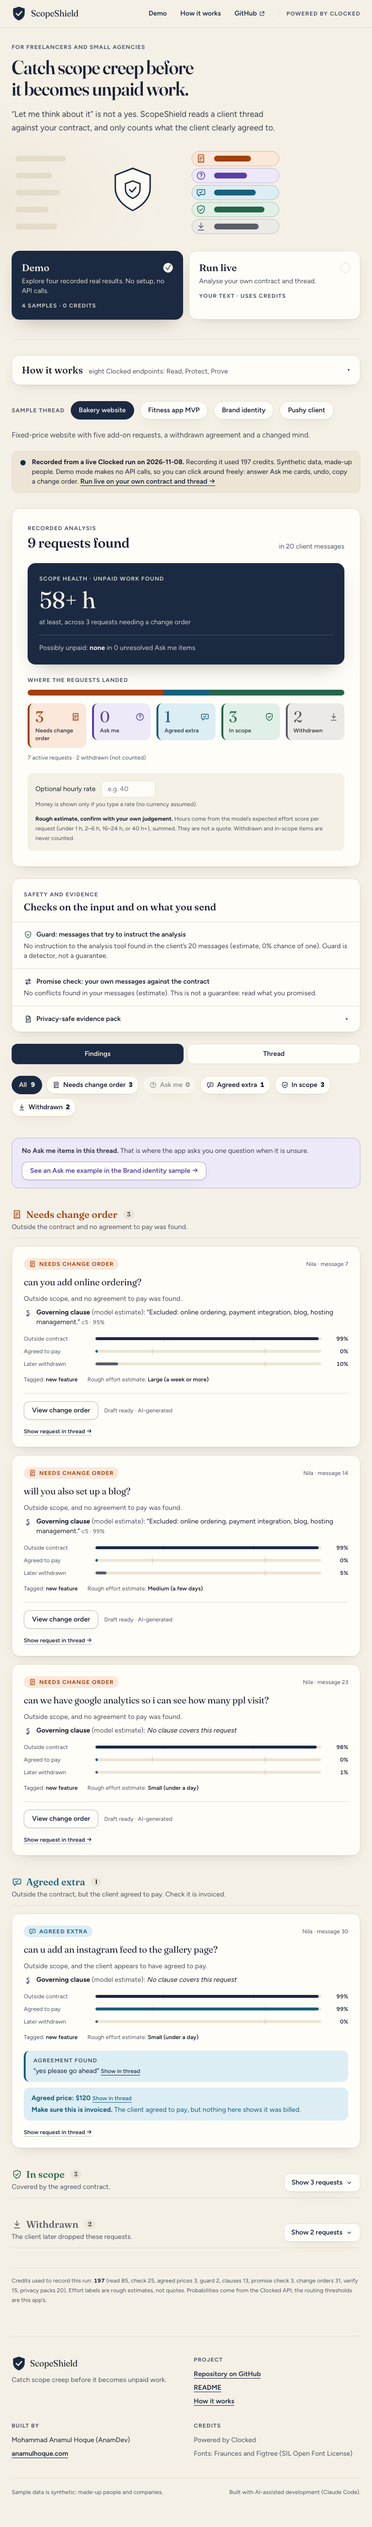
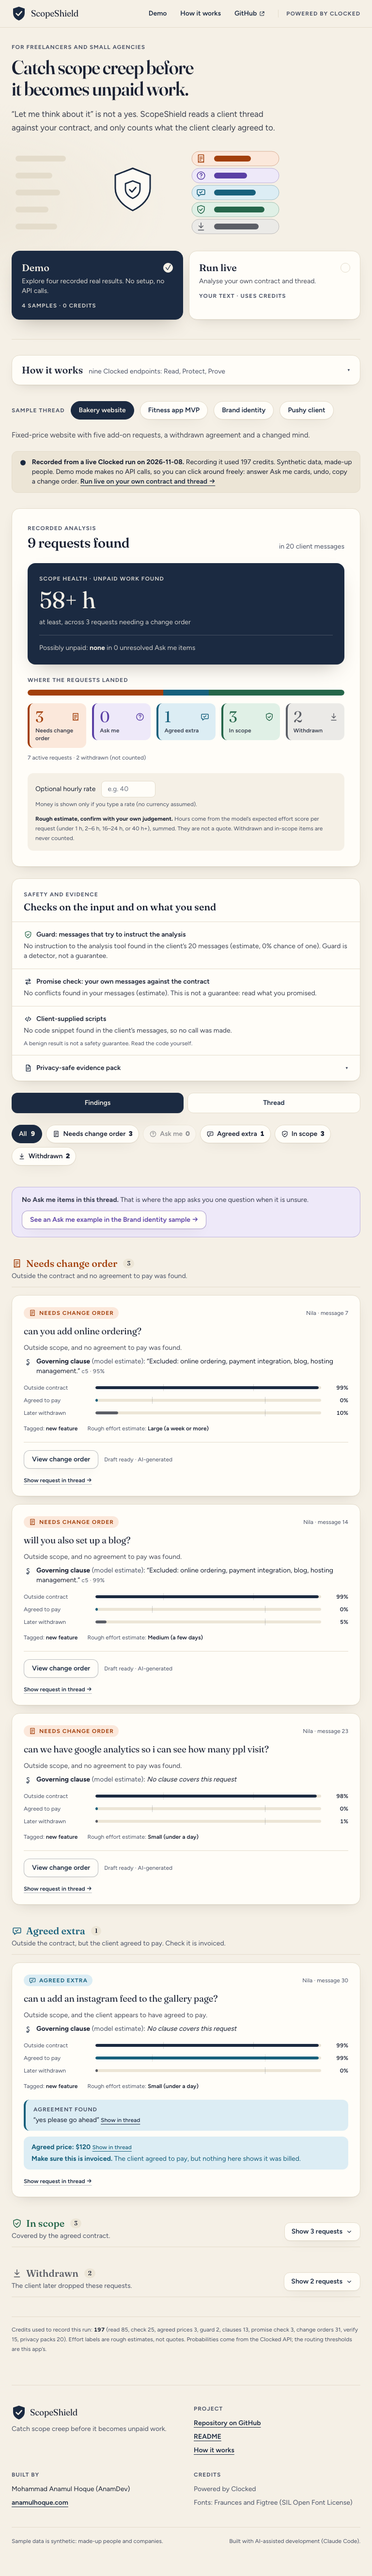
docs: nine endpoints (Read, Protect, Prove) with Inspect, Limitations for Compare passages, tuned prompts, detection misses and Inspect; eval 32/33 (120 credits); screenshots regenerated

diff --git a/src/components/HowItWorks.tsx b/src/components/HowItWorks.tsx
@@ -7,7 +7,6 @@ const GROUPS: ReadonlyArray<{ name: string; rows: readonly Row[] }> = [
     rows: [
       ["Extract", "Which sentences in each client message are separate requests (and where they sit in the thread). Also finds the agreement or withdrawal sentence, and the quoted price for Agreed extra items.", "Builds the request list, highlights the client’s exact sentence in the thread, and shows “No actionable request” when nothing is found."],
       ["Decide", "For each request, the probability that it is outside the contract, that the client agreed to pay, and that they later withdrew it. Also a kind tag and an effort score.", "This app applies its own thresholds to route each request to a queue, draws the probability bars, and feeds the rough effort estimate. Uncertain results go to Ask me."],
-      ["Rerank", "Which clause of your contract governs a request (the contract is split into clauses; one call per active request).", "Shows the “Governing clause” on the card, or “No clause covers this request”, and passes the clause into Fill so a change-order message can cite the exclusion. It never changes the queue."],
       ["Fill", "For a request that needs a change order: category, unpaid risk, the price quoted (if any), a drafted client message and a next step.", "Creates the change-order card (collapsed until you open it). Generated text is labelled as an AI-generated draft, and Copy is blocked if it contains an amount that is not in the thread."],
     ],
   },
@@ -16,12 +15,14 @@ const GROUPS: ReadonlyArray<{ name: string; rows: readonly Row[] }> = [
     rows: [
       ["Guard", "Whether the client’s messages try to instruct the analysis tool itself (ignore the rules, mark things in scope or paid). Ordinary requests, pressure and discount asks are not injection.", "A flagged message gets a warning chip, and its text is replaced by a withheld notice before Decide, Fill and Verify see the thread. “Include anyway” is your recorded choice."],
       ["Protect (PII)", "Names, emails, phone numbers, addresses and bank or card numbers in a privacy-safe evidence pack for one request.", "Offers a masked copy of the pack to download or copy, with the number of items found and masked. Your original text is never changed. Detection can miss sensitive data."],
+      ["Inspect", "Whether a code snippet the client pasted (a tracking tag, a script to install) looks routine, suspicious or harmful. One call per snippet, at most 3, never run.", "Adds a “Client-supplied script” row to the request card with the flagged lines and a link into the chat. If flagged, Fill’s next step asks the client for the snippet’s source and not to install it until confirmed. A benign result is not a safety guarantee."],
     ],
   },
   {
     name: "Prove",
     rows: [
       ["Verify", "Whether each factual claim in a generated change-order message is supported by the contract and the thread (two named sources), contradicted by them, or not stated in them.", "A contradicted claim blocks Copy and shows the claim with its evidence. A not-found claim shows an amber note and asks you to confirm you have read it. Evidence passages are highlighted in the thread. The next step is not checked."],
+      ["Rerank", "Which clause of your contract governs a request (the contract is split into clauses; one call per active request).", "Shows the “Governing clause” on the card, or “No clause covers this request”, and passes the clause into Fill so a change-order message can cite the exclusion. It never changes the queue."],
       ["Compare", "Where your own messages may conflict with the contract, for example offering excluded work at no cost or more revisions than agreed.", "A “Promise check” lists each possible conflict with both quotes and a link to the message. It is labelled “Possible conflict, please review”, never a verdict."],
     ],
   },
@@ -33,7 +34,7 @@ export function HowItWorks({ analysis, recorded }: { analysis: Analysis | null; 
   return (
     <details id="how-it-works" className="group surface scroll-mt-20">
       <summary className="flex list-none items-center justify-between gap-3 px-5 py-4 text-sm font-semibold">
-        <span className="flex flex-wrap items-baseline gap-x-3"><span className="t-h3">How it works</span><span className="font-normal text-muted">eight Clocked endpoints: Read, Protect, Prove</span></span>
+        <span className="flex flex-wrap items-baseline gap-x-3"><span className="t-h3">How it works</span><span className="font-normal text-muted">nine Clocked endpoints: Read, Protect, Prove</span></span>
         <span aria-hidden className="text-muted transition-transform group-open:rotate-180">▾</span>
       </summary>
       <div className="space-y-4 border-t border-line px-5 py-5 text-sm leading-6">
@@ -54,7 +55,7 @@ export function HowItWorks({ analysis, recorded }: { analysis: Analysis | null; 
         <p className="text-muted"><b className="text-ink">Not decided by Clocked:</b> the queue thresholds (30% / 70% scope, 25% / 75% payment, 75% withdrawn), the hour bands and the Copy block are rules in this app. Your answers to Ask me questions are yours.</p>
         <p>
           <b>{recorded ? "Credits used to record this analysis" : "Credits used by this analysis"}:</b>{" "}
-          {u ? <>{total} (Extract {u.extract.calls} calls / {u.extract.credits} credits, Decide {u.decide.calls} / {u.decide.credits}, Agreed prices {u.price?.calls ?? 0} / {u.price?.credits ?? 0}, Guard {u.guard?.calls ?? 0} / {u.guard?.credits ?? 0}, Rerank {u.rerank?.calls ?? 0} / {u.rerank?.credits ?? 0}, Compare {u.compare?.calls ?? 0} / {u.compare?.credits ?? 0}, Fill {u.fill.calls} / {u.fill.credits}, Verify {u.verify?.calls ?? 0} / {u.verify?.credits ?? 0}, Protect {u.pii?.calls ?? 0} / {u.pii?.credits ?? 0})</> : "nothing analysed yet"}
+          {u ? <>{total} (Extract {u.extract.calls} calls / {u.extract.credits} credits, Decide {u.decide.calls} / {u.decide.credits}, Agreed prices {u.price?.calls ?? 0} / {u.price?.credits ?? 0}, Guard {u.guard?.calls ?? 0} / {u.guard?.credits ?? 0}, Rerank {u.rerank?.calls ?? 0} / {u.rerank?.credits ?? 0}, Compare {u.compare?.calls ?? 0} / {u.compare?.credits ?? 0}, Fill {u.fill.calls} / {u.fill.credits}, Verify {u.verify?.calls ?? 0} / {u.verify?.credits ?? 0}, Protect {u.pii?.calls ?? 0} / {u.pii?.credits ?? 0}, Inspect {u.script?.calls ?? 0} / {u.script?.credits ?? 0})</> : "nothing analysed yet"}
         </p>
       </div>
     </details>

diff --git a/scripts/eval.ts b/scripts/eval.ts
@@ -177,6 +177,7 @@ const md = [
   `| rerank | ${calls.rerank} | ${credits.rerank} |`,
   `| pii | ${calls.pii} | ${credits.pii} |`,
   `| compare | ${calls.compare} | ${credits.compare} |`,
+  `| script | ${calls.script} | ${credits.script} |`,
   `| **Total** | ${Object.values(calls).reduce((t, x) => t + x, 0)} | **${total}** |`,
   ``,
 ].join("\n") + "\n" + readFileSync("docs/eval-notes.md", "utf8");

diff --git a/README.md b/README.md
@@ -34,22 +34,23 @@ Around that sits one calm "Safety and evidence" area: **Guard** screens the clie
 
 ## How ScopeShield uses Clocked
 
-ScopeShield uses eight Clocked endpoints in one pipeline, grouped as **Read** (understand the thread and the contract), **Protect** (keep the analysis and your data safe) and **Prove** (check what is said against the sources). Each output changes what the app does or shows.
+ScopeShield uses nine endpoints: Read (Extract, Decide, Fill), Protect (Guard, Protect, Inspect), Prove (Verify, Rerank, Compare). Together they form one pipeline: Read understands the thread and the contract, Protect keeps the analysis and your data safe, Prove checks what is said against the sources. Each output changes what the app does or shows.
 
 | Group | Clocked endpoint | What it decides | What changes in the app |
 |---|---|---|---|
 | Read | **Extract** (`/extract`) | Which sentences in each client message are separate requests, with their position in the thread. Also the agreement or withdrawal sentence and, for agreed work, the price quoted for that request. | Builds the request list and the evidence highlights in the thread. An empty result is shown as "No actionable request". Agreed extra cards show the agreement sentence and "Agreed price" (or "No price found in the thread"). |
 | Read | **Decide** (`/decide`) | For each request, on the contract plus the full thread: the probability that it is outside the contract, that the client clearly agreed to pay, and that they later withdrew it, plus a kind tag and an effort score. | The app applies its own thresholds to route the request to a queue, draws the probability bars, triggers the Ask me question for uncertain results, and feeds the rough hour estimate. |
-| Read | **Rerank** (`/rerank`) | Which clause of your contract governs a request. The contract is split into clauses c1..cn by a deterministic splitter; one call per active (not withdrawn) request. | The card shows "Governing clause (model estimate)" with its quote, or "No clause covers this request". The clause is passed into Fill so the change-order message can cite the exclusion, and Verify checks it like any other claim. It never changes the queue. |
 | Read | **Fill** (`/fill`) | For a change-order request: category, unpaid risk, the price quoted (if any), a short message to the client and a next step. | Creates the change-order card. Generated text is labelled "AI-generated draft". Decide's effort and agreement results are passed into Fill's instructions, so a large job with no agreement cannot be rated low risk. |
 | Protect | **Guard** (`/injection`) | Whether the client's messages try to instruct the analysis tool (ignore the rules, mark things in scope or paid, reveal prompts). One call over the client's messages only. Ordinary requests, pressure and discount asks are not injection. | A flagged message gets a warning chip in the chat and a banner. Its text is replaced by "[message withheld: possible instruction to the analysis tool]" in everything Decide, Fill, Verify and the lookups see. "Include anyway" is your recorded choice. |
 | Protect | **Protect** (`/pii`) | Names, emails, phones, addresses and bank or card numbers in an "evidence pack" assembled for one request. | Offers a masked copy to download or copy, with "Found and masked: N items (by kind)". Your original text is never altered. "Detection can miss sensitive data. Review before sharing." |
+| Protect | **Inspect** (`/script`) | Whether a code snippet the client pasted (a tracking tag, a script to install) looks routine, suspicious or harmful. Deterministic detection first (code fence, `<script`, function with braces, `curl ... \| sh`, PowerShell cmdlets); at most 3 snippets, each up to 5,000 characters; no call when there is none. The snippet is treated as untrusted text and never run. | The request card gets a "Client-supplied script" row with the risk (model estimate), the flagged lines in a code block and "Show in thread". If flagged, Fill's next step asks the client for the snippet's source and not to install it until that is confirmed. "A benign result is not a safety guarantee. Read the code yourself." |
 | Prove | **Verify** (`/grounding`) | Whether each factual claim in the generated message is supported by, contradicted by, or not stated in two named sources: the contract and the thread. | A contradicted claim blocks Copy and shows the evidence. A not-stated claim shows a note and needs one acknowledgement. Supported claims are counted. |
 | Prove | **Compare** (`/compare`) | Where your own messages may conflict with the contract, for example offering excluded work at no cost or more revisions than agreed. One call per analysis. | A "Promise check" panel lists each possible conflict with both quotes and a link into the chat, labelled "Possible conflict, please review", or "No conflicts found in your messages". Never a verdict. |
+| Prove | **Rerank** (`/rerank`) | Which clause of your contract governs a request. The contract is split into clauses c1..cn by a deterministic splitter; one call per active (not withdrawn) request. | The card shows "Governing clause (model estimate)" with its quote, or "No clause covers this request". The clause is passed into Fill so the change-order message can cite the exclusion, and Verify checks it like any other claim. It never changes the queue. |
 
 **Routing is owned by the app, not the model.** Withdrawn is checked first (withdrawal probability 0.75 or more). Otherwise outside below 0.30 is in scope; from 0.30 to below 0.70 goes to Ask me; at 0.70 or more it depends on the agreement to pay: 0.75 or more is an agreed extra, 0.25 or less needs a change order, and anything between goes to Ask me. A withdrawn request is excluded from Fill and from the Scope Health numbers.
 
-**How they work together:** Guard screens the input first. Extract locates requests, Decide judges them, Rerank ties each to a clause, Fill drafts, Verify checks the draft. Compare checks your own promises against the contract, and Protect masks the evidence you may share.
+**How they work together:** Guard screens the input first, and Inspect checks any pasted code the same way. Extract locates requests, Decide judges them, Rerank ties each to a clause, Fill drafts, Verify checks the draft. Compare checks your own promises against the contract, and Protect masks the evidence you may share.
 
 ## How uncertain results, missing information and failures are handled
 
@@ -58,7 +59,7 @@ ScopeShield uses eight Clocked endpoints in one pipeline, grouped as **Read** (u
 - **Everything the models say is an estimate.** Guard flags, governing clauses, promise-check conflicts and masked findings are labelled as estimates, with the evidence next to them, and none of them changes a queue on its own (Guard only withholds the text of a flagged message, and you can include it anyway).
 - **Generated text is guarded twice.** A check blocks Copy when a draft contains a currency amount that is not in the contract or thread (with one stricter Regenerate), and Verify blocks Copy when a claim is contradicted.
 - **Failures.** The client retries timeouts, network errors, 409, 429 and 5xx up to four attempts with exponential backoff and jitter, always with the same `Idempotency-Key`, and never retries 400, 401, 402 or 403. After that the failure is visible and specific (input problem, credits used up, rate limit, server problem), partial results are kept, and each failed message or request has its own Retry. When credits run out, the banner offers "Switch to Demo mode". Requests run three at a time. Live runs have input caps: contract up to 6,000 characters, thread up to 12,000, up to 30 client messages.
-- **Abuse protection for the public proxy.** The API key stays server-side in a Cloudflare Pages Function. It allows only the eight endpoints (`decide`, `extract`, `fill`, `grounding`, `injection`, `rerank`, `pii`, `compare`), rejects bodies over 200 KB, rejects cross-origin browser requests, and enforces approximate daily caps (100 Clocked calls per IP and 800 per site per UTC day by default, counting every endpoint; see "Credit cost per analysis" for what that means per analysis, with a friendly "Live mode limit reached today, please use Demo mode" message).
+- **Abuse protection for the public proxy.** The API key stays server-side in a Cloudflare Pages Function. It allows only the nine endpoints (`decide`, `extract`, `fill`, `grounding`, `injection`, `rerank`, `pii`, `compare`, `script`), rejects bodies over 200 KB, rejects cross-origin browser requests, and enforces approximate daily caps (100 Clocked calls per IP and 800 per site per UTC day by default, counting every endpoint; see "Credit cost per analysis" for what that means per analysis, with a friendly "Live mode limit reached today, please use Demo mode" message).
 
 ## Thread replay in Demo mode
 
@@ -118,7 +119,7 @@ npx wrangler pages deploy dist --project-name scopeshield --branch main
 
 ## Evaluation
 
-`npm run eval` runs 31 golden cases against the live Clocked API through the same client the app uses (final run: 8 November 2026). **30 of 31 pass.** The full table, with every case and its numbers, is in [docs/eval-results.md](docs/eval-results.md); how the cases evolved is in [docs/eval-notes.md](docs/eval-notes.md).
+`npm run eval` runs 33 golden cases against the live Clocked API through the same client the app uses (final run: 8 November 2026). **32 of 33 pass.** The full table, with every case and its numbers, is in [docs/eval-results.md](docs/eval-results.md); how the cases evolved is in [docs/eval-notes.md](docs/eval-notes.md).
 
 | Group | Cases | Passed | What is checked |
 |---|---|---|---|
@@ -130,8 +131,9 @@ npx wrangler pages deploy dist --project-name scopeshield --branch main
 | Rerank | 2 | 2 | a blog request finds the exclusion clause; a banner-colour request does not |
 | Protect | 2 | 2 | a name, an email and a phone number are masked; text without personal data is left unchanged |
 | Compare | 2 | 2 | offering excluded work at no cost is flagged; consistent freelancer messages are not |
+| Inspect | 2 | 2 | a routine analytics tag is not flagged harmful; a snippet that sends cookies to an outside address is |
 
-The one failure is real and left failing on purpose: for the WhatsApp "no extra cost" request the drafted message still opens with "I can certainly", which our rubric forbids. One positive and one benign case per endpoint is a thin test: it shows each feature can fire and can stay quiet, not how often it is right (see Limitations). There are also **141 unit tests** in 14 files (routing, thread parsing and Unicode offsets, retry and backoff, the pipeline with mocked calls, the invented-amount check, Verify policy, Guard withholding and offset mapping, clause splitting, promise-check mapping, evidence packs, the proxy and its rate limits, replay and chat helpers).
+The one failure is real and left failing on purpose: for the WhatsApp "no extra cost" request the drafted message still opens with "I can certainly", which our rubric forbids. One positive and one benign case per endpoint is a thin test: it shows each feature can fire and can stay quiet, not how often it is right (see Limitations). There are also **161 unit tests** in 15 files (routing, thread parsing and Unicode offsets, retry and backoff, the pipeline with mocked calls, the invented-amount check, Verify policy, Guard withholding and offset mapping, snippet detection and Inspect mapping, clause splitting, promise-check mapping, evidence packs, the proxy and its rate limits, replay and chat helpers).
 
 ## Credit cost per analysis
 
@@ -142,12 +144,12 @@ Measured from `X-Clocked-Credits`; details in [docs/credit-usage.md](docs/credit
 | Live analysis of the Fitness sample (17 messages, 10 from the client, 4 requests), analysis only, **before** M9 to M12 | 39 | 16 |
 | The same, **after** Guard, Rerank (one per request) and Compare were added | **46** | 22 |
 | The same, plus one change order (Fill 12, Verify 3) and one evidence pack (Protect 3) | **64** | 25 |
-| Recorded analysis-only totals: Bakery (36 messages, 9 requests) / Fitness / Brand / Pushy client | 131 / 63 / 80 / 71 | 42 / 22 / 26 / 23 |
-| Recorded totals including a change order for every eligible request and an evidence pack: Bakery / Fitness / Brand / Pushy client | 197 / 121 / 123 / 105 | |
+| Recorded analysis-only totals: Bakery (36 messages, 9 requests) / Fitness / Brand / Pushy client | 131 / 63 / 80 / 78 | 42 / 22 / 26 / 27 |
+| Recorded totals including a change order for every eligible request and an evidence pack: Bakery / Fitness / Brand / Pushy client | 197 / 121 / 123 / 133 | |
 | Recorded totals **before** M9 to M12 (Bakery / Fitness / Brand, change orders included) | 167 / 96 / 96 | |
-| The 31-case eval | 116 | 31 |
+| The 33-case eval | 120 | 33 |
 
-Per feature: Guard about 1 to 2 credits per analysis (6 when it flags and returns evidence), Rerank about 2 per request, Compare 2 to 5 per analysis, Protect 3 to 5 per pack, Fill plus Verify about 15 per change order. Fill, Verify and Protect run only on demand in the live app.
+Per feature: Inspect about 2 credits per snippet, Guard about 1 to 2 credits per analysis (6 when it flags and returns evidence), Rerank about 2 per request, Compare 2 to 5 per analysis, Protect 3 to 5 per pack, Fill plus Verify about 15 per change order. Fill, Verify and Protect run only on demand in the live app.
 
 **What that means for the daily cap.** The public proxy counts every call against 100 per IP and 800 per site per UTC day by default (counting is sampled and approximate, so the real cap is looser). An analysis-only run uses 22 to 42 calls on the sample threads (a thread with a pasted code snippet adds one Inspect call per snippet, at most 3), so one visitor gets about 2 to 4 analyses a day, or one full run with every change order and pack; site-wide the 800-call cap is about 19 to 36 analyses a day. Demo mode makes no calls.
 
@@ -179,11 +181,15 @@ Design decision: the application owns the thresholds, not the model. That made t
 - **Promise check can be wrong.** Compare gave a false positive on one of our own threads before we added a sentence to its instructions, and the quoted passage can include neighbouring messages. The check covers conflicts with the contract only, with one positive and one benign golden case behind it.
 - **Governing clauses are estimates.** Rerank sometimes says "No clause covers this request" for a request the contract clearly cares about (every request in the Fitness sample), and its best clause can be only loosely related (the Pushy sample's "make the hero photo bigger" matched the photography exclusion at 53%).
 - **Privacy masking can miss data.** Protect found only first names in our synthetic threads, so the recorded packs show little; detection can miss sensitive data, and the masked text still needs a human review before it is shared.
+- **A Compare passage can span neighbouring messages.** The quoted conflict can include the lines around the one that matters, so read both quotes before acting.
+- **Prompts were tuned on small synthetic samples.** The Rerank question wording and the Compare instruction were adjusted while looking at our own four threads (and Compare's added sentence after a false positive there), so they may behave differently on real threads.
+- **Guard, Protect and Inspect detection can miss things.** All three are estimates: a clean result means nothing was found, not that nothing is there. Inspect also only looks at snippets our simple detector recognises (at most 3 per thread, 5,000 characters each) and never runs them.
+- **A benign Inspect result is not a safety guarantee.** Read the code yourself before adding anything a client sends. Inspect's golden cases are one routine snippet and one cookie sender, which proves little about other code.
 - **Credits are not constant** (see above), and the live app's price per analysis depends on thread length and, now, on the number of requests (one Rerank call each).
 
 ## Repository layout
 
-`src/lib` holds the engine (thread parsing, routing, the Clocked client, the pipeline, prompts, checks and Verify policy), `src/components` the UI, `functions/api/clocked/[endpoint].ts` the proxy, `samples/` and `public/demo/` the synthetic threads and their recorded runs, `src/lib/features.ts`, `guard.ts`, `governing.ts`, `protect.ts`, `promise.ts` and `evidencePack.ts` the Guard, Rerank, Protect and Compare features, `evals/golden.json` the golden cases, and `scripts/` the smoke test, eval, snapshot, live-run, screenshot and motion-check tools. Design notes (palette, motion rules) are in [docs/design-notes.md](docs/design-notes.md); `docs/demo-script.md` is the shot list for the demo video.
+`src/lib` holds the engine (thread parsing, routing, the Clocked client, the pipeline, prompts, checks and Verify policy), `src/components` the UI, `functions/api/clocked/[endpoint].ts` the proxy, `samples/` and `public/demo/` the synthetic threads and their recorded runs, `src/lib/features.ts`, `guard.ts`, `governing.ts`, `protect.ts`, `promise.ts`, `evidencePack.ts` and `snippets.ts` the Guard, Rerank, Protect, Compare and Inspect features, `evals/golden.json` the golden cases, and `scripts/` the smoke test, eval, snapshot, live-run, screenshot and motion-check tools. Design notes (palette, motion rules) are in [docs/design-notes.md](docs/design-notes.md); `docs/demo-script.md` is the shot list for the demo video.
 
 ## Credits
 

diff --git a/docs/eval-results.md b/docs/eval-results.md
@@ -2,7 +2,7 @@
 
 Run on 2026-11-08 against the live Clocked API (`npm run eval`). Cases: `evals/golden.json`. Real numbers only.
 
-**30/31 cases passed.**
+**32/33 cases passed.**
 
 | Case | Endpoint | Result | Detail |
 |---|---|---|---|
@@ -37,6 +37,8 @@ Run on 2026-11-08 against the live Clocked API (`npm run eval`). Cases: `evals/g
 | pii-benign-text-unchanged | pii | PASS | 0 finding(s) {}; masked: "Please add a blog section and change the banner colour to dark green." |
 | compare-flags-free-excluded-work | compare | PASS | 1 possible conflict(s): "Sure, I can add the blog section for you, no extra cost.  Ha" |
 | compare-benign-freelancer-messages | compare | PASS | 0 possible conflict(s) |
+| script-routine-analytics-snippet-not-harmful | script | PASS | routine (malicious 0.003, suspicious 0.025, benign administration) |
+| script-cookie-sending-snippet-flagged | script | PASS | harmful (malicious 0.992, suspicious 0.999, data exfiltration) |
 
 ## Credits used by this eval run
 
@@ -50,7 +52,8 @@ Run on 2026-11-08 against the live Clocked API (`npm run eval`). Cases: `evals/g
 | rerank | 2 | 2 |
 | pii | 2 | 4 |
 | compare | 2 | 4 |
-| **Total** | 31 | **116** |
+| script | 2 | 4 |
+| **Total** | 33 | **120** |
 
 ## Notes and history (hand-written; appended to every eval run)
 
@@ -117,3 +120,23 @@ Other things found while doing M7:
 ## Security change after M7: no hostname-based cap skip
 
 The M7 fix that skipped the daily caps on `localhost` was replaced by an explicit environment flag, `ALLOW_UNLIMITED_LOCAL=1`, read only from the server environment (`.dev.vars` locally; never set on the deployed project). The proxy ignores anything a caller controls: hostname, `Host`/`X-Forwarded-Host`, headers and query strings. Tests cover: flag off means caps are enforced even on localhost, a missing KV binding is refused even on localhost, only the exact string "1" enables the flag, and sneaky headers/query strings do nothing. Local check with no flag: 160 requests with `?ALLOW_UNLIMITED_LOCAL=1` and an `x-allow-unlimited-local` header got 153 upstream answers and then 429 `limit_reached`. The first 429 came after about 155 calls rather than 80: KV reads can be stale, so sampled increments are sometimes lost and the cap is looser than nominal. The README says so.
+
+## M9 to M12: Guard, Rerank, Protect, Compare (8 Nov 2026)
+
+Docs were read first and every endpoint was smoke-tested through the proxy (`scripts/smoke-extra.ts`) before any type was written; raw responses have no `data` wrapper. Eight golden cases were added (one positive and one benign per endpoint). **Final eval: 30/31 pass**, 116 credits; the one failure is the same WhatsApp "I can certainly" Fill case as before.
+
+- **Guard (`/injection`).** One call over the client's messages only (`source: "content"`, `evidence: true`). A classic override attempt flags (0.995) and a pushy, deadline-and-discount message does not (0.002). On the four recorded threads: three benign (0.003 to 0.004) and the Pushy client thread flagged (0.993, "instruction override", "critical") with evidence on the right message. The result is an estimate: Guard is a detector, not an enforcement boundary, and a missing evidence passage is not proof of safety. Evidence is matched to messages by code-point offsets and ignored if its offsets do not reproduce the quote. If a verdict says "injection" but no passage can be located, nothing is withheld and the page says so.
+- **What "withheld" changes.** A flagged client message is replaced by "[message withheld: possible instruction to the analysis tool]" in the state sent to Decide, Fill, Verify and the support, price and Rerank lookups. Offsets that come back from those calls are mapped back to the original thread and verified against it again, or the highlight is dropped. The flagged message is not sent to Extract. "Include anyway" is the user's recorded choice: live it runs Extract and Decide for that message only (the other requests were judged without it and are not re-run); in Demo the result was recorded in advance, so it needs no API call.
+- **Rerank (`/rerank`).** Our first call used the bare request ("add a blog section") as the query and ranked the *price* clause first and the exclusion clause last (0.02). Phrasing the query as a question about the contract plus an instruction ("a clause governs the request if it includes the requested work or excludes it") fixed it: blog and online ordering rank the "Excluded: ..." clause first (0.98, 0.95) and the banner-colour request ranks the revisions clause (0.91). The model's score is shown as an estimate. Several requests honestly get "No clause covers this request" (for example every request in the Fitness thread, whose contract has no sentence naming them). Routing thresholds are unchanged.
+- **Protect (`/pii`).** The pack is sent with `entities` set to person, email, phone, address, bank_account and credit_card, `anonymize: "replace"`. The API echoes the original values back in `entities`; the app keeps only the counts by kind and the masked text. The synthetic threads contain only first names, so the recorded packs show `person` findings and nothing else; the golden case with a name, an email and a phone number masks all three.
+- **Compare (`/compare`).** The first instruction (yours, verbatim) produced a **false positive** on the Brand thread: "Business cards are extra: $350 ... Want me to go ahead?" followed by "Of course, that's part of the guide" came back as a conflict with the exclusion list, because the passage boundary dropped the price. We tested three ways of separating the messages (blank lines, dashes, "Message n:"); all three kept the false positive. Adding one sentence to the instructions ("Saying that excluded work is extra, or quoting a separate price for it, is not a conflict; promising it for free, or promising more than the contract includes, is.") removed it while keeping the real conflict on the Pushy thread ("one more round of changes on the house" against "Includes one round of revisions"). The Bakery, Fitness and Brand threads now report no conflicts. The reported passage can still span neighbouring messages (the Pushy conflict quote covers three of Zoe's messages), which is why the UI says "Possible conflict, please review" and shows both quotes. Compare was also a clear precision risk that the benign golden case only partly covers (it passes, but one benign case proves little).
+- **An unplanned cost.** The first full recording ran through `npm run snapshot -- pushy-client`, whose argument parsing wrongly skipped the first argument, so it re-recorded all four samples (about 500 credits) instead of one. The bug is fixed (`--only` and a sample id now parse independently). The re-recordings are the ones in `public/demo/`; Fill drafts and Verify results were regenerated with the governing clause in Fill's instructions, so the recorded drafts changed too.
+
+## M13: Inspect (`/script`) on client-supplied snippets (8 Nov 2026)
+
+The docs were read first and the endpoint was smoke-tested through the proxy (11 credits) before any type was written; the raw response has no `data` wrapper (`verdict`, `malicious`, `suspicious`, `categories`, `evidence` lines).
+
+- **What it changes.** A deterministic detector looks at the client's messages only (code fence, `<script`, function or arrow with braces, `curl ... | sh`, PowerShell cmdlets), at most 3 snippets of 5,000 characters, and makes no call when none is found. Each snippet gets one Inspect call with instructions that treat it as untrusted text. The card shows the risk as a model estimate with the evidence lines. If a snippet is flagged (suspicious or harmful), Fill's instructions and next-step description change, so the drafted next step asks the client for the snippet's source and says not to install it until that is confirmed.
+- **Demo scene.** The Pushy client sample now has a synthetic tracking snippet that reads `document.cookie` and sends it to the reserved domain `collector.example.invalid`. Inspect flagged it harmful (malicious 0.992, data exfiltration) and the recorded Fill next step reads "Ask Marcus for the source of the code snippet and do not install it until that is confirmed". Only this sample was re-recorded (133 credits in total for the sample, all parts).
+- **Golden cases (2):** a routine analytics snippet is not flagged harmful (malicious 0.003, suspicious 0.025) and the cookie sender is flagged. Both pass. One benign and one malicious case say little about other code.
+- **Final eval after M13: 32/33**, 120 credits; the one failure is still the WhatsApp "I can certainly" Fill case.

diff --git a/docs/eval-notes.md b/docs/eval-notes.md
@@ -74,3 +74,12 @@ Docs were read first and every endpoint was smoke-tested through the proxy (`scr
 - **Protect (`/pii`).** The pack is sent with `entities` set to person, email, phone, address, bank_account and credit_card, `anonymize: "replace"`. The API echoes the original values back in `entities`; the app keeps only the counts by kind and the masked text. The synthetic threads contain only first names, so the recorded packs show `person` findings and nothing else; the golden case with a name, an email and a phone number masks all three.
 - **Compare (`/compare`).** The first instruction (yours, verbatim) produced a **false positive** on the Brand thread: "Business cards are extra: $350 ... Want me to go ahead?" followed by "Of course, that's part of the guide" came back as a conflict with the exclusion list, because the passage boundary dropped the price. We tested three ways of separating the messages (blank lines, dashes, "Message n:"); all three kept the false positive. Adding one sentence to the instructions ("Saying that excluded work is extra, or quoting a separate price for it, is not a conflict; promising it for free, or promising more than the contract includes, is.") removed it while keeping the real conflict on the Pushy thread ("one more round of changes on the house" against "Includes one round of revisions"). The Bakery, Fitness and Brand threads now report no conflicts. The reported passage can still span neighbouring messages (the Pushy conflict quote covers three of Zoe's messages), which is why the UI says "Possible conflict, please review" and shows both quotes. Compare was also a clear precision risk that the benign golden case only partly covers (it passes, but one benign case proves little).
 - **An unplanned cost.** The first full recording ran through `npm run snapshot -- pushy-client`, whose argument parsing wrongly skipped the first argument, so it re-recorded all four samples (about 500 credits) instead of one. The bug is fixed (`--only` and a sample id now parse independently). The re-recordings are the ones in `public/demo/`; Fill drafts and Verify results were regenerated with the governing clause in Fill's instructions, so the recorded drafts changed too.
+
+## M13: Inspect (`/script`) on client-supplied snippets (8 Nov 2026)
+
+The docs were read first and the endpoint was smoke-tested through the proxy (11 credits) before any type was written; the raw response has no `data` wrapper (`verdict`, `malicious`, `suspicious`, `categories`, `evidence` lines).
+
+- **What it changes.** A deterministic detector looks at the client's messages only (code fence, `<script`, function or arrow with braces, `curl ... | sh`, PowerShell cmdlets), at most 3 snippets of 5,000 characters, and makes no call when none is found. Each snippet gets one Inspect call with instructions that treat it as untrusted text. The card shows the risk as a model estimate with the evidence lines. If a snippet is flagged (suspicious or harmful), Fill's instructions and next-step description change, so the drafted next step asks the client for the snippet's source and says not to install it until that is confirmed.
+- **Demo scene.** The Pushy client sample now has a synthetic tracking snippet that reads `document.cookie` and sends it to the reserved domain `collector.example.invalid`. Inspect flagged it harmful (malicious 0.992, data exfiltration) and the recorded Fill next step reads "Ask Marcus for the source of the code snippet and do not install it until that is confirmed". Only this sample was re-recorded (133 credits in total for the sample, all parts).
+- **Golden cases (2):** a routine analytics snippet is not flagged harmful (malicious 0.003, suspicious 0.025) and the cookie sender is flagged. Both pass. One benign and one malicious case say little about other code.
+- **Final eval after M13: 32/33**, 120 credits; the one failure is still the WhatsApp "I can certainly" Fill case.

diff --git a/docs/design-notes.md b/docs/design-notes.md
@@ -63,3 +63,12 @@ One calm card ("Safety and evidence") between the summary and the findings, with
 - Rows are `card` with `line` hairlines; inner items use `paper` fills. The governing clause on a card is plain text with a section icon in `navy`; the clause score is small `muted` text.
 - Icons added to the same family (24-grid, 1.75 stroke): shield with exclamation (Guard flagged), two opposing arrows (conflict), page with a fold (evidence pack), section sign (governing clause).
 - The Pushy client sample is the fourth chip in the sample row; nothing else in the layout moved. The new area keeps final values in the DOM and adds no animation beyond the existing `press` hover and the `<details>` chevron.
+
+## Client-supplied script row (M13)
+
+Inspect adds one row to a request card, only when the client pasted a code snippet, and one row ("Client-supplied scripts") to the Safety and evidence area. It adds **no new tokens, hues, fonts or animation**.
+
+- The risk chip uses existing tokens: routine = `muted` on `paper-deep`, suspicious = amber (`warn` / `warn-bg`, the same "needs your review" meaning as Guard and Compare) and harmful = the existing `change` / `change-bg` pair used for "Needs change order". It is a model estimate, never a verdict.
+- Evidence lines sit in a small `<pre>` on `paper-deep` with the mono stack already in use, wrapped (no horizontal page scroll at 375 px). "Show in thread" scrolls to the snippet; the snippet is marked in the chat like other evidence.
+- The caveat "A benign result is not a safety guarantee. Read the code yourself." is always visible under the row. A failed check shows "Not checked" with Retry.
+- New icon in the same family (24-grid, 1.75 stroke): angle brackets (code).

diff --git a/CLAUDE.md b/CLAUDE.md
@@ -83,6 +83,9 @@ Clocked is strong at: "an approval request is not an approval", "later messages 
 - **Compare** (`/compare`): "Promise check", contract vs the freelancer's own messages; findings are labelled "Possible conflict, please review", never a verdict.
 - All four are estimates and are labelled as such. `scripts/smoke-extra.ts` prints their raw responses.
 
+## M13 addition (implemented)
+- Endpoint `script` (Inspect) is allowlisted (nine endpoints). A deterministic detector finds client-pasted code snippets (max 3, each ≤5,000 chars; none = no call); one call per snippet; the request card shows a "Client-supplied script" row (model estimate, evidence lines, caveat). A flagged snippet changes Fill's next step (ask for the source; do not install yet). Daily caps default to 100 calls/IP and 800/site per UTC day (`IP_DAILY_CAP`, `GLOBAL_DAILY_CAP` override).
+
 ## M4 additions (implemented)
 - Demo mode is the default: recorded runs of the three synthetic samples (`samples/*.json`, recorded by `npm run snapshot` into `public/demo/*.json` with date and credits), served as static files; the demo client makes NO API calls. "Run live" uses the proxy with input caps.
 - Scope Health: counts per queue and a rough unpaid-effort range (bands: <0.5 under 1 h, 0.5-1.5 about 2-6 h, 1.5-2.5 about 16-24 h, >2.5 40 h or more). WITHDRAWN and IN SCOPE never count. Money appears only if the user types an hourly rate.

diff --git a/docs/credit-usage.md b/docs/credit-usage.md
@@ -12,6 +12,8 @@ Each recording = Guard (1 call over the client's messages) + Extract per client 
 
 Last partial re-record (`--only script`) changed the totals above by 0 credits net; Extract and Decide results of the other parts were kept from earlier runs.
 
+Live credits spent on M13 (8 Nov 2026): smoke test 11, Pushy client re-recording 133, two golden script cases 4, final 33-case eval 120. Inspect costs about 2 credits per snippet; analysis-only Pushy (with its one snippet) is 78 credits / 27 calls.
+
 <!-- live-run -->
 ## One measured live run (7 Nov 2026, `npm run live-run -- fitness-app --fill`)
 
